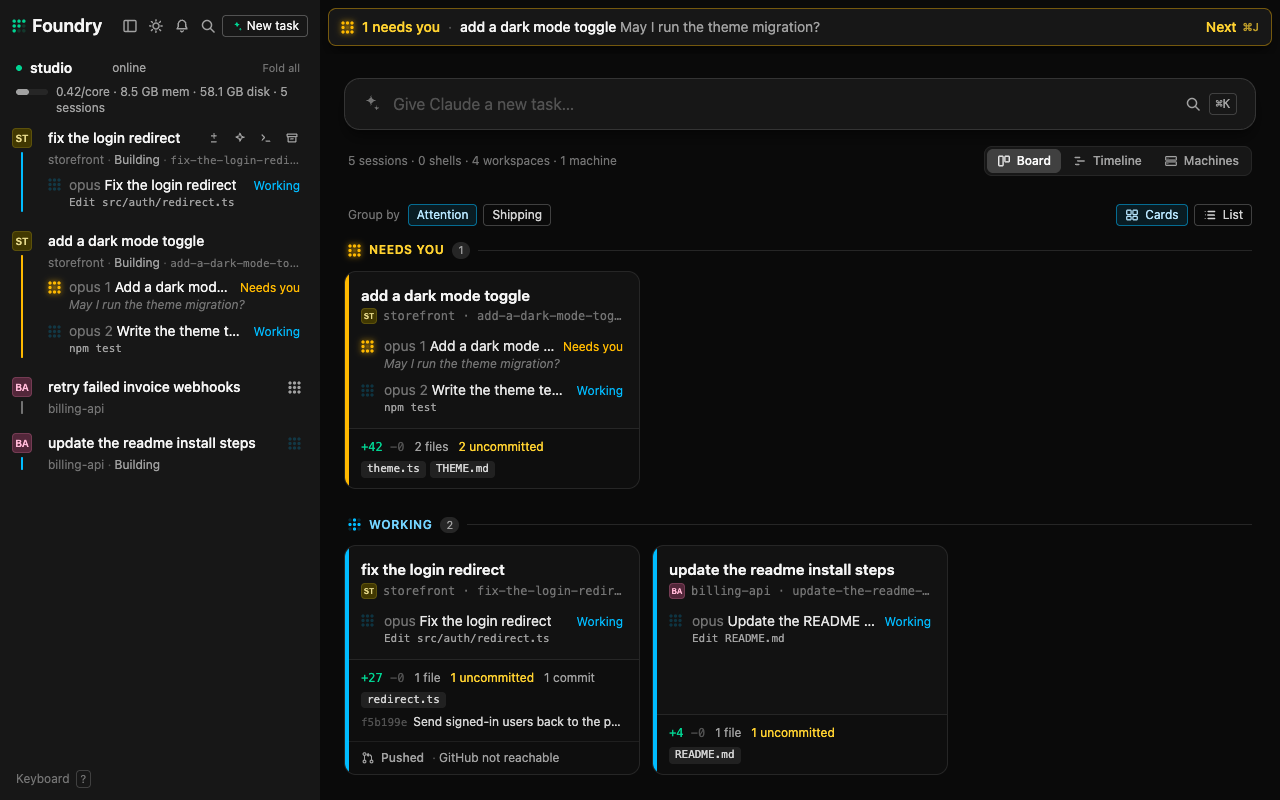
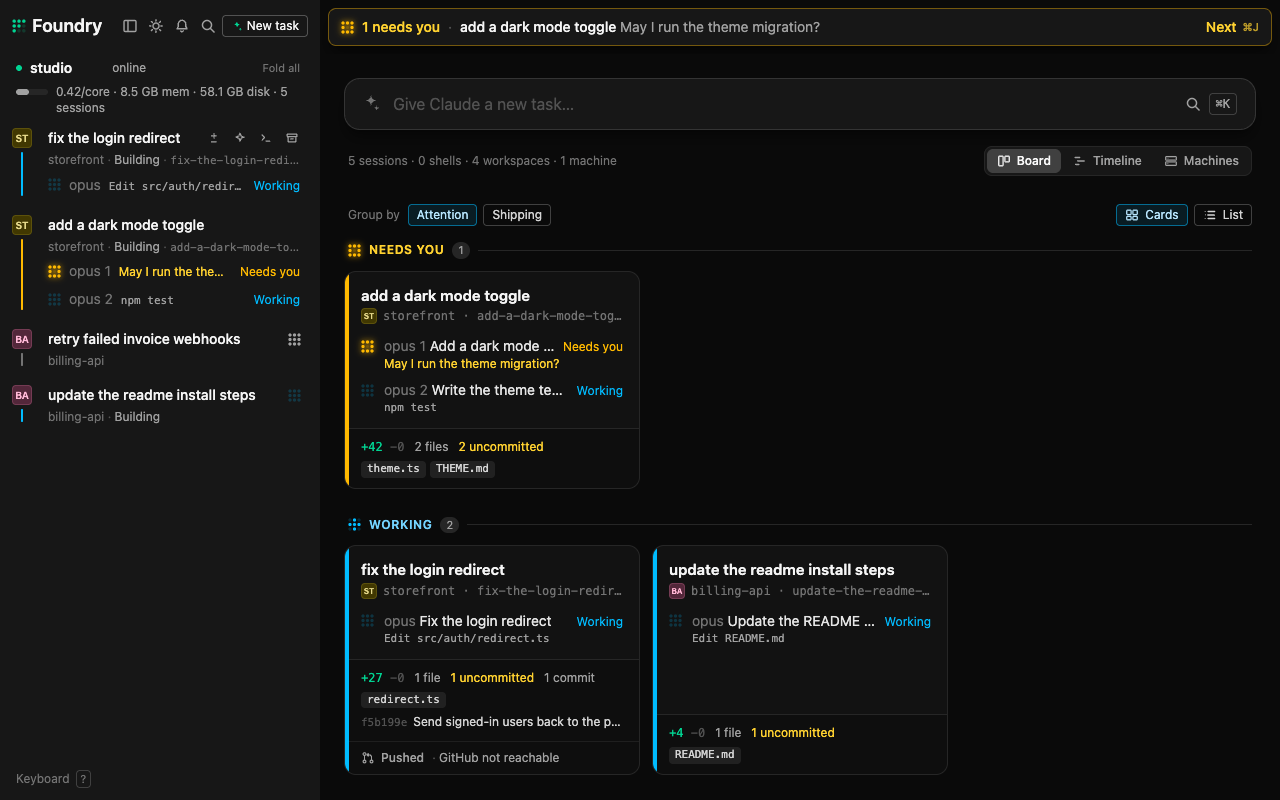
fix: the busy row's one-line layout lives in Named, its name cap is tested, and the guide's sidebar screenshot shows one-line rows
Review round 1: f3 (action) board-sidebar.png still showed two-line
session rows; retaken from the stubbed fleet #383 used, with the waiting
session's step as a question (amber), as the app draws it. f1 (nit) the
one-line test now asserts max-w-1/2, shrink-0 and truncate on the busy
name; each mutant fails it. f2 (nit) Named takes an optional step and
draws the busy layout, so the dimmed-name rule is in one component; its
other callers pass no step.

Changed region(s): [[0.0, 0.2188, 0.25, 0.5938], [0.3125, 0.4375, 0.4375, 0.4688], [0.2188, 0.4688, 0.25, 0.5]]

diff --git a/web/src/Sidebar.tsx b/web/src/Sidebar.tsx
@@ -3,7 +3,7 @@ import { Link } from "@tanstack/react-router";
 import { useRef, useState, type KeyboardEvent, type ReactNode } from "react";
 import { button } from "./Modal";
 import { jumpKey, SearchIcon } from "./JumpPalette";
-import { Named, Now } from "./Now";
+import { Named } from "./Now";
 import { startShell } from "./api";
 import { couldNot, words } from "./labels";
 import { loadUnfolded, saveUnfolded } from "./fold";
@@ -527,14 +527,8 @@ function Item({ row, workspace, selected, onNavigate, tab }: { row: Row; workspa
         >
           <StateGlyph glyph={row.glyph} />
           <span className="flex min-w-0 flex-1 items-baseline gap-2 leading-5">
-            {row.now ? (
-              // Busy: the step takes the title's place on the line; the title stays for screen readers and the tooltip.
-              <span className="flex min-w-0 flex-1 items-baseline gap-2">
-                <span className={`max-w-1/2 shrink-0 truncate ${row.title ? "text-neutral-500" : ""}`}>{row.name}</span> {row.title && <span className="sr-only">{row.title}</span>} <Now step={row.now} className="min-w-0 flex-1" />
-              </span>
-            ) : (
-              <Named name={row.name} title={row.title} />
-            )}{" "}
+            {/* Busy: the step takes the title's place on the line; the title stays for screen readers and the tooltip. */}
+            <Named name={row.name} title={row.title} step={row.now} />{" "}
             <span className={`shrink-0 text-xs ${ended ? "" : glyphText[row.glyph]}`}>{row.label}</span>
           </span>
         </Link>

diff --git a/web/src/Now.tsx b/web/src/Now.tsx
@@ -10,8 +10,18 @@ export function Now({ step, className = "" }: { step: Step; className?: string }
   );
 }
 
-/** A terminal's name, then a session's first prompt when it has one. */
-export function Named({ name, title }: { name: string; title?: string }) {
+/**
+ * A terminal's name, then a session's first prompt when it has one. Given a step, the step takes the
+ * title's place on the line: the name is cut at half the line to leave the step room, and the title
+ * stays for screen readers, read before the step.
+ */
+export function Named({ name, title, step }: { name: string; title?: string; step?: Step }) {
+  if (step)
+    return (
+      <span className="flex min-w-0 flex-1 items-baseline gap-2">
+        <span className={`max-w-1/2 shrink-0 truncate ${title ? "text-neutral-500" : ""}`}>{name}</span> {title && <span className="sr-only">{title}</span>} <Now step={step} className="min-w-0 flex-1" />
+      </span>
+    );
   if (!title) return <span className="min-w-0 flex-1 truncate">{name}</span>;
   return (
     <span className="min-w-0 flex-1 truncate">

diff --git a/web/src/Sidebar.test.tsx b/web/src/Sidebar.test.tsx
@@ -275,7 +275,10 @@ describe("Sidebar", () => {
       expect(box.className).toMatch(/(^| )flex( |$)/);
       expect(box.className).not.toMatch(/(^| )flex-(col|wrap)( |$)/);
     }
-    expect(within(working).getByText("opus 1").className).toMatch(/(^| )text-neutral-500( |$)/);
+    // The name is cut at half the line, so a long one leaves room for the step.
+    const name = within(working).getByText("opus 1");
+    expect(name.className).toMatch(/(^| )text-neutral-500( |$)/);
+    for (const cls of ["max-w-1/2", "shrink-0", "truncate"]) expect(name.className.split(" ")).toContain(cls);
   });
 
   it("shows a busy session with no title yet by its name and step alone", async () => {
